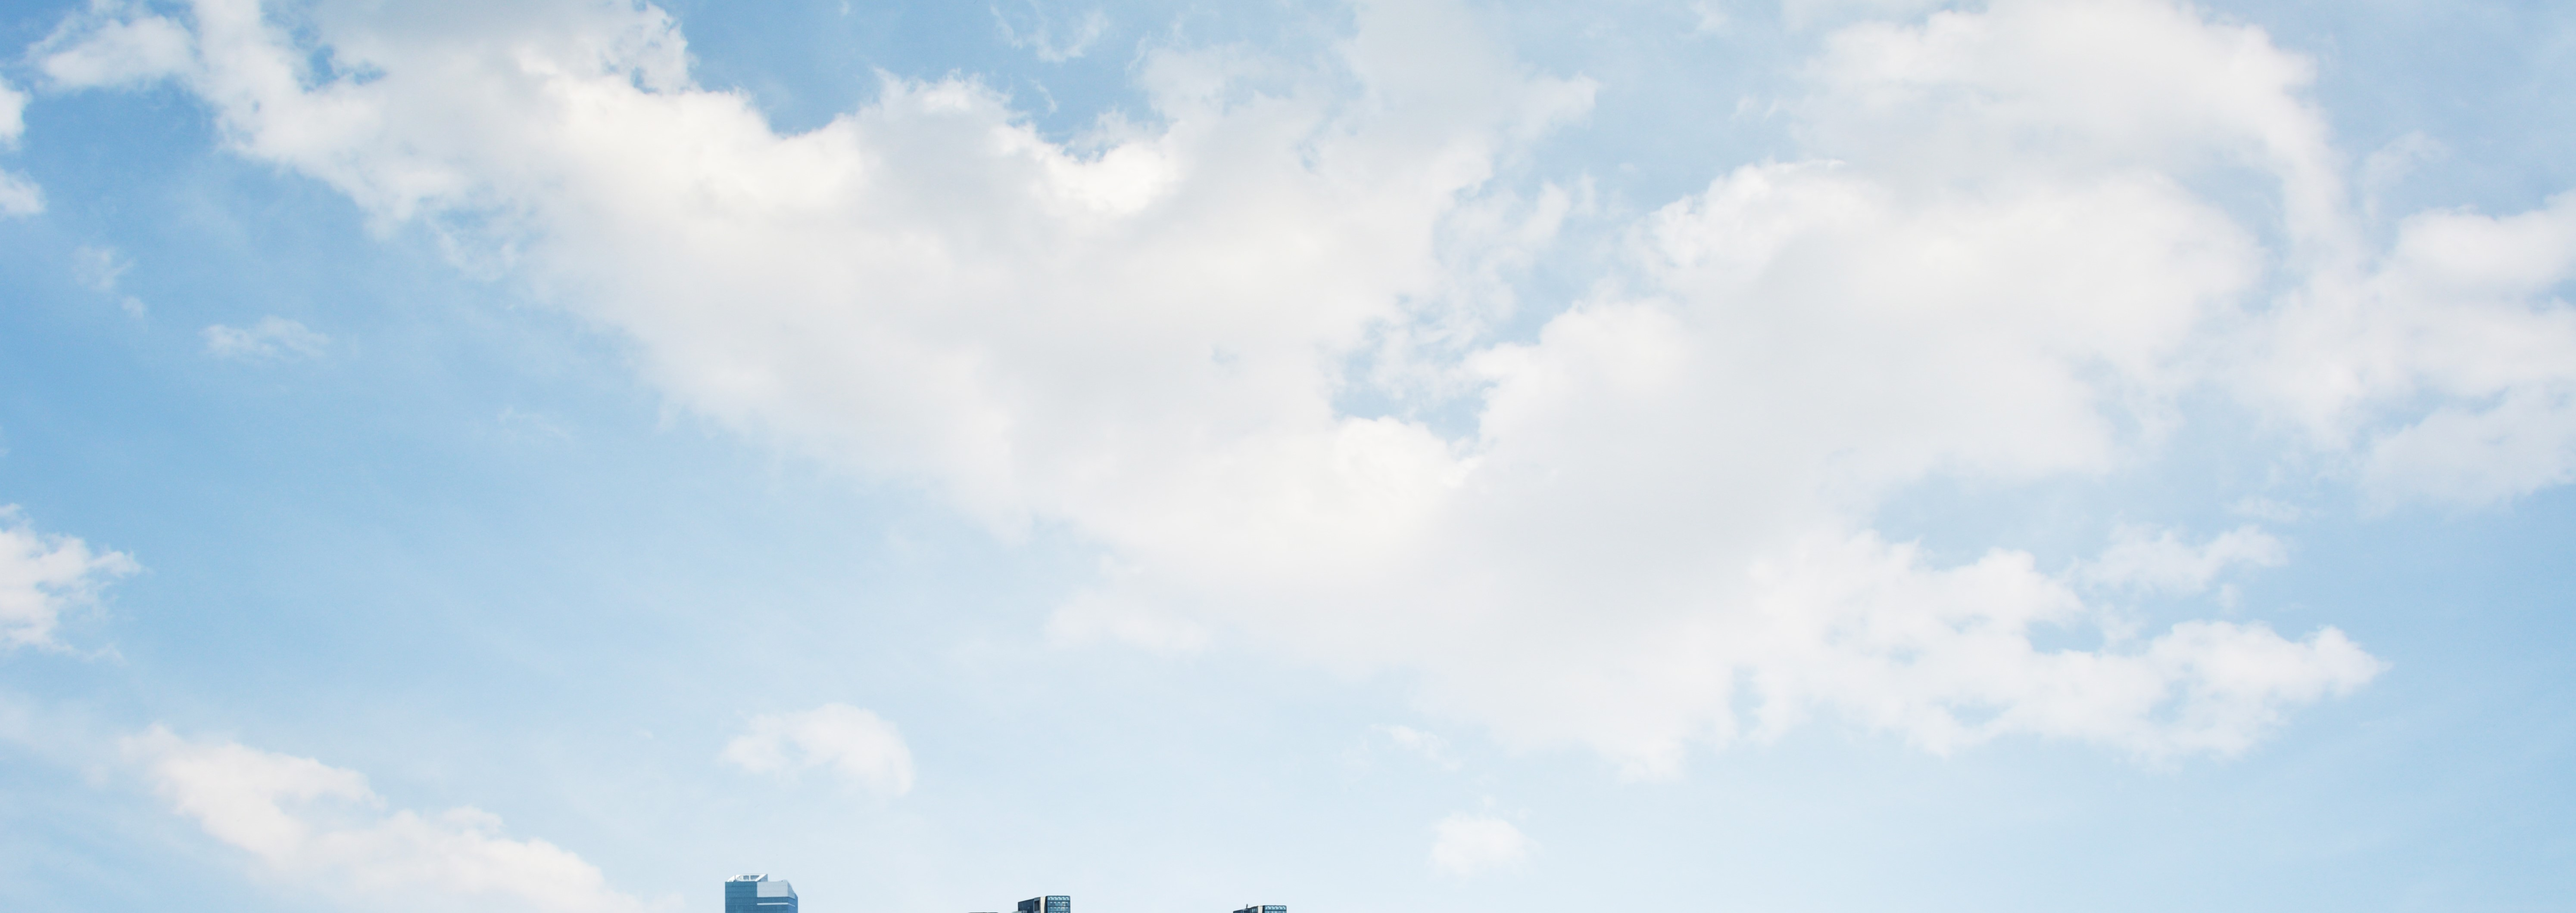
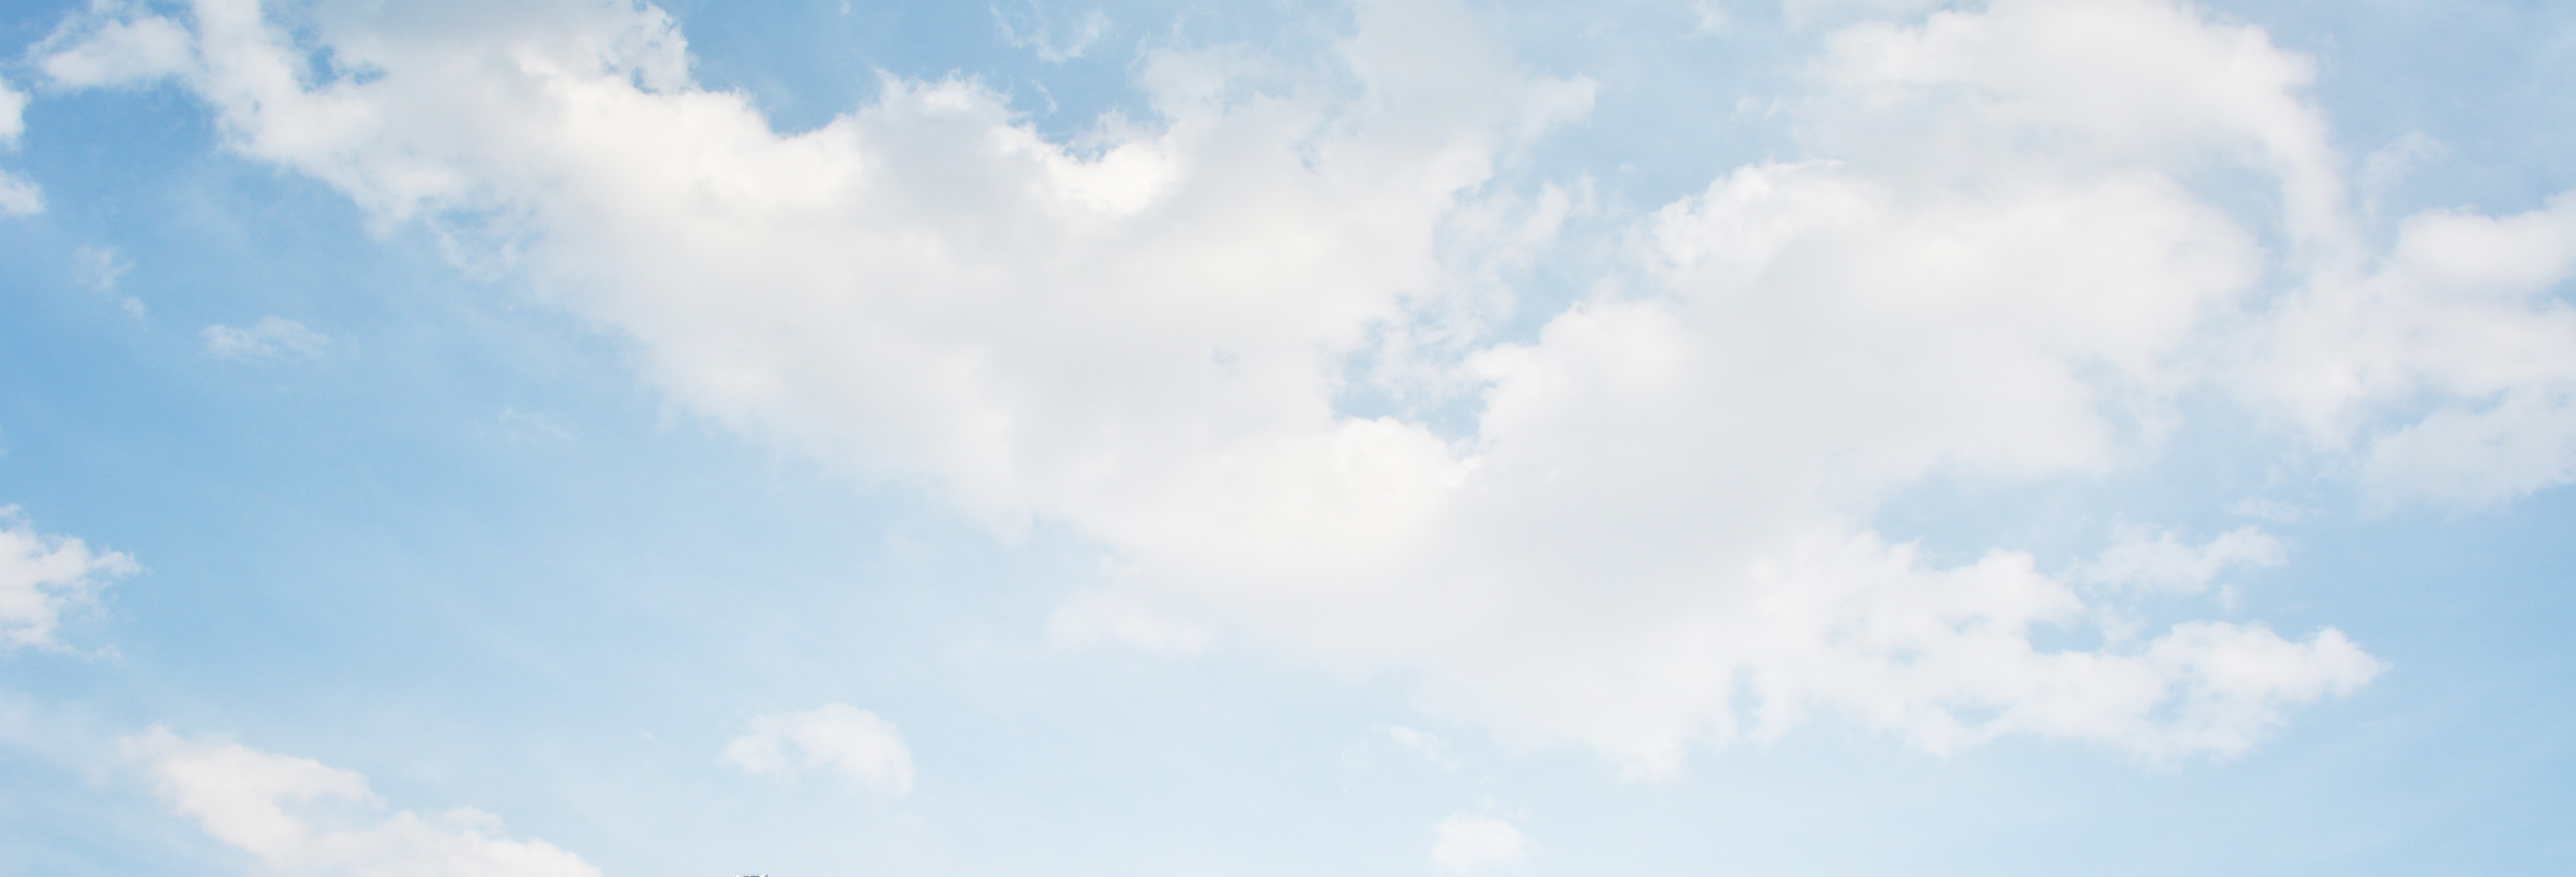
Last Design

diff --git a/src/components/Navbar.jsx b/src/components/Navbar.jsx
@@ -16,11 +16,13 @@ const Navbar = () => {
 
   return (
     <header className="sticky top-0 border-b-2 border-[#cc8b12] z-50 flex justify-between md:justify-center bg-[#2f0547] items-center py-3 px-6 md:px-16 transition-all duration-300">
-      <img
-        className="w-14 md:w-24 cursor-pointer mr-16 "
-        src={logo}
-        alt="Logo"
-      />
+      <Link to="/">
+        <img
+          className="w-14 md:w-24 cursor-pointer mr-16"
+          src={logo}
+          alt="Logo"
+        />
+      </Link>
 
       {/* Navigation Links for Desktop */}
       <nav className="hidden relative md:flex space-x-6 items-center">
@@ -36,26 +38,26 @@ const Navbar = () => {
           onMouseLeave={() => setDropdownOpen(false)}
         >
           <Link to="#">
-            Projects <i class="fa fa-caret-down"></i>
+            Projects <i className="fa fa-caret-down"></i>
           </Link>
 
           {dropdownOpen && (
-            <div className="absolute bg-[#2f0547] text-white mt-2 py-2 w-64 rounded-lg shadow-lg">
+            <div className="absolute bg-[#2f0547] text-white mt-2 py-2 w-64 shadow-lg">
               {/* Ongoing Projects Label */}
               <div className="lg:text-xl font-medium px-4 py-2">
-                <i class="fa fa-caret-down"></i> Ongoing Projects
+                <i className="fa fa-caret-down"></i> Ongoing Projects
               </div>
               <Link
                 to="/skyline-avenue"
                 className="block px-4 py-2 lg:text-lg hover:bg-[#910fdb] transition-all duration-200"
               >
-                <i class="fa fa-caret-right fa-fw"></i> Skyline Avenue
+                <i className="fa fa-caret-right fa-fw"></i> Skyline Avenue
               </Link>
               <Link
                 to="/morya-enclave"
                 className="block px-4 py-2 lg:text-lg hover:bg-[#910fdb] transition-all duration-200"
               >
-                <i class="fa fa-caret-right fa-fw"></i> Morya Enclave
+                <i className="fa fa-caret-right fa-fw"></i> Morya Enclave
               </Link>
               {/*  <Link
                 to="/xyz-projects"
@@ -122,7 +124,7 @@ const Navbar = () => {
           </Link>
 
           {dropdownOpen && (
-            <div className="absolute bg-[#2f0547] text-white mt-2 py-2 w-64 rounded-lg shadow-lg">
+            <div className="absolute bg-[#2f0547] text-white mt-2 py-2 w-64 shadow-lg">
               {/* Ongoing Projects Label */}
               <div className="lg:text-xl text-base font-medium px-4 py-2">
                 <i class="fa fa-caret-down"></i> Ongoing Projects
@@ -137,7 +139,7 @@ const Navbar = () => {
                 to="/morya-enclave"
                 className="block px-4 py-2 text-base lg:text-lg hover:bg-[#910fdb] transition-all duration-200"
               >
-                <i class="fa fa-caret-right fa-fw"></i> Morya Enclave
+                <i className="fa fa-caret-right fa-fw"></i> Morya Enclave
               </Link>
               {/*  <Link
                 to="/xyz-projects"

diff --git a/src/pages/Projects.jsx b/src/pages/Projects.jsx
@@ -23,9 +23,19 @@ const Projects = () => {
       description: "1 BHK Homes & Commercial @ Chikhali",
     },
     {
+      imageSrc: image7,
+      title: "Vaishnav Residency",
+      description: "1 & 2 BHK Luxurious Homes @ Chikhali",
+    },
+    {
       imageSrc: image4,
       title: "Madhuban",
       description: "Premium 1 & 2 BHK Homes @ Thergaon",
+    },
+    {
+      imageSrc: image10,
+      title: "Samarth Srushti",
+      description: "1 & 2 BHK Luxurious Homes @ Chikhali",
     },
     {
       imageSrc: image5,
@@ -33,29 +43,20 @@ const Projects = () => {
       description: "1 & 2 BHK Luxurious Homes @ Pradhikaran Annexe",
     },
     {
-      imageSrc: image6,
-      title: "Raj Angan",
-      description: "1 & 2 BHK Luxurious Homes @ Chikhali More Vasti",
-    },
-    {
-      imageSrc: image7,
-      title: "Vaishnav Residency",
-      description: "1 & 2 BHK Luxurious Homes @ Chikhali",
-    },
-    {
-      imageSrc: image8,
-      title: "Kunal Heritage",
-      description: "2 BHK Luxurious Homes @ Sector 20 Pradhikaran",
-    },
-    {
       imageSrc: image9,
       title: "Vineet Heights",
       description: "1 & 2 BHK Luxurious Homes @ Sane Chowk",
     },
     {
-      imageSrc: image10,
-      title: "Samarth Srushti",
-      description: "1 & 2 BHK Luxurious Homes @ Chikhali",
+      imageSrc: image6,
+      title: "Raj Angan",
+      description: "1 & 2 BHK Luxurious Homes @ Chikhali More Vasti",
+    },
+
+    {
+      imageSrc: image8,
+      title: "Kunal Heritage",
+      description: "2 BHK Luxurious Homes @ Sector 20 Pradhikaran",
     },
   ];
 
@@ -69,7 +70,7 @@ const Projects = () => {
           <h1 className="text-3xl text-center font-semibold text-white mb-12">
             Completed Projects
           </h1>
-          <div className="grid grid-cols-1 md:grid-cols-2 lg:grid-cols-4 lg:gap-12 gap-6">
+          <div className="grid grid-cols-2 md:grid-cols-2 lg:grid-cols-4 lg:gap-12 gap-6">
             {completedprojects.map((card, index) => (
               <Card
                 key={index}

diff --git a/src/components/GoToTop.jsx b/src/components/GoToTop.jsx
@@ -1,0 +1,42 @@
+import React, { useEffect, useState } from "react";
+import { FaArrowUp } from "react-icons/fa";
+
+const GoToTop = () => {
+  const [isVisible, setIsVisible] = useState(false);
+
+  const goToBtn = () => {
+    window.scrollTo({ top: 0, left: 0, behavior: "smooth" });
+  };
+
+  const listenToScroll = () => {
+    let heightToHidden = 20;
+    const winScroll =
+      document.body.scrollTop || document.documentElement.scrollTop;
+
+    if (winScroll > heightToHidden) {
+      setIsVisible(true);
+    } else {
+      setIsVisible(false);
+    }
+  };
+
+  useEffect(() => {
+    window.addEventListener("scroll", listenToScroll);
+    return () => window.removeEventListener("scroll", listenToScroll);
+  }, []);
+
+  return (
+    <>
+      {isVisible && (
+        <div
+          className="fixed bottom-5 right-5 md:bottom-10 md:right-10 z-50 w-10 h-10 md:w-14 md:h-14 flex justify-center items-center bg-[#2f0547] border border-[#cc8e19] border-2 text-[#cc8e19] rounded-full cursor-pointer shadow-lg hover:bg-[#7829a7] hover:text-[#cc8b12] transition-all duration-300"
+          onClick={goToBtn}
+        >
+          <FaArrowUp className="text-xl md:text-2xl" />
+        </div>
+      )}
+    </>
+  );
+};
+
+export default GoToTop;

diff --git a/src/components/Card.jsx b/src/components/Card.jsx
@@ -5,12 +5,12 @@ const Card = ({ imageSrc, title, description /* projectId */ }) => {
     <div className="max-w-sm rounded-md mb-3 overflow-hidden shadow-lg text-black transform transition duration-300 hover:cursor-pointer hover:scale-105 hover:shadow-2xl">
       {/* Ensure all images are the same size */}
       <img
-        className="w-full h-64 md:h-[286px] md:w-[286px] border-b-2 border-b-purple-900 object-cover transition duration-300 hover:brightness-110"
+        className="max-w-full w-44 h-44 md:h-[286px] md:w-[286px] border-b-2 border-b-purple-900 object-cover transition duration-300 hover:brightness-110"
         src={imageSrc}
         alt={title}
       />
-      <div className="px-6 text-center bg-white py-2">
-        <div className="font-medium text-purple-800 text-lg mt-1 mb-2">
+      <div className="md:px-6 px-1 py-1 text-center bg-white md:py-2">
+        <div className="font-medium md:font-semibold text-purple-800 text-lg mt-1 mb-2">
           {title}
         </div>
         <p className="text-gray-1000 mb-2 text-sm">{description}</p>

diff --git a/src/index.css b/src/index.css
@@ -1,10 +1,17 @@
+@import "/node_modules/slick-carousel/slick/slick.css";
+@import "/node_modules/slick-carousel/slick/slick-theme.css";
+@import url("https://fonts.googleapis.com/css2?family=Fredoka:wght@300..700&family=Poppins:wght@100;500&display=swap");
+
 @tailwind base;
 @tailwind components;
 @tailwind utilities;
-@import "~slick-carousel/slick/slick.css";
-@import "~slick-carousel/slick/slick-theme.css";
-@import url("https://fonts.googleapis.com/css2?family=Fredoka:wght@300..700&family=Poppins:wght@100;500&display=swap");
 
 body {
   font-family: "Poppins", sans-serif;
+  scroll-behavior: smooth;
+}
+
+/* Apply scrollbar styles globally */
+* {
+  @apply scrollbar scrollbar-thin scrollbar-thumb-gray-500 scrollbar-track-black;
 }

diff --git a/src/components/Footer.jsx b/src/components/Footer.jsx
@@ -21,17 +21,11 @@ const Footer = () => {
               />
             </a>
             &nbsp;|&nbsp;
-            <a
-              href="privacy-policy.html"
-              className="text-gray-400 hover:text-gray-200"
-            >
+            <a href="/#" className="text-gray-400 hover:text-gray-200">
               Privacy Policy
             </a>
             &nbsp;|&nbsp;
-            <a
-              href="emi-calculator.html"
-              className="text-gray-400 hover:text-gray-200"
-            >
+            <a href="/#" className="text-gray-400 hover:text-gray-200">
               EMI Calculator
             </a>
           </p>

diff --git a/src/pages/Home2.jsx b/src/pages/Home2.jsx
@@ -167,7 +167,7 @@ export function Home2() {
               standards of living.
             </p>
             <button
-              className="border border-black mt-4 p-3 text-base md:text-lg font-medium rounded-md text-white bg-purple-800 hover:bg-purple-900 hover:scale-105 transition-transform duration-300 shadow-md hover:shadow-lg"
+              className="border border-black mt-4 p-2 md:p-3 text-base md:text-lg font-medium rounded-md text-white bg-purple-800 hover:bg-purple-900 hover:scale-105 transition-transform duration-300 shadow-md hover:shadow-lg"
               type="button"
             >
               Explore More

diff --git a/src/App.jsx b/src/App.jsx
@@ -10,6 +10,7 @@ import MoryaEnclave from "./pages/MoryaEnclave";
 import About from "./pages/About";
 import Projects from "./pages/Projects";
 import Contact from "./pages/Contact";
+import GoToTop from "./components/GoToTop";
 import Footer from "./components/Footer";
 import { Home2 } from "./pages/Home2";
 // importing Projects details componenets
@@ -30,6 +31,7 @@ const App = () => {
         <Route path="/contact" element={<Contact />} />
         {/* <Route path="/projects/:projectId" element={<ProjectDetail />} /> */}
       </Routes>
+      <GoToTop />
       <Footer />
     </Router>
   );

diff --git a/src/components/Ongoingcard.jsx b/src/components/Ongoingcard.jsx
@@ -19,7 +19,7 @@ const Ongoingcard = ({ imageSrc, title, description, projectId }) => {
         <div className="block items-center mt-4">
           <Link
             to={`/${projectId}`}
-            className="inline-block bg-purple-900 text-white text-sm py-2 px-3 pointer rounded hover:font-medium"
+            className="inline-block bg-purple-900 hover:bg-purple-800 text-white text-sm py-2 px-3 pointer rounded hover:font-medium"
           >
             Know More
           </Link>

diff --git a/src/pages/Contact.jsx b/src/pages/Contact.jsx
@@ -135,7 +135,7 @@ const ContactForm = () => {
         </div>
       </div>
 
-      <div className="flex justify-center items-center bg-gray-300 w-full h-auto mb-8 p-6">
+      <div className="flex justify-center items-center w-full h-auto p-6">
         <div className="w-full md:w-2/3 lg:w-3/4 rounded-lg overflow-hidden shadow-lg hover:shadow-2xl transition-transform transform hover:scale-105 duration-300 ease-in-out">
           <iframe
             title="Google Map"

diff --git a/tailwind.config.js b/tailwind.config.js
@@ -6,5 +6,5 @@ export default module.exports = withMT({
   theme: {
     extend: {},
   },
-  plugins: [],
+  plugins: [require("tailwind-scrollbar")({ nocompatible: true })],
 });
